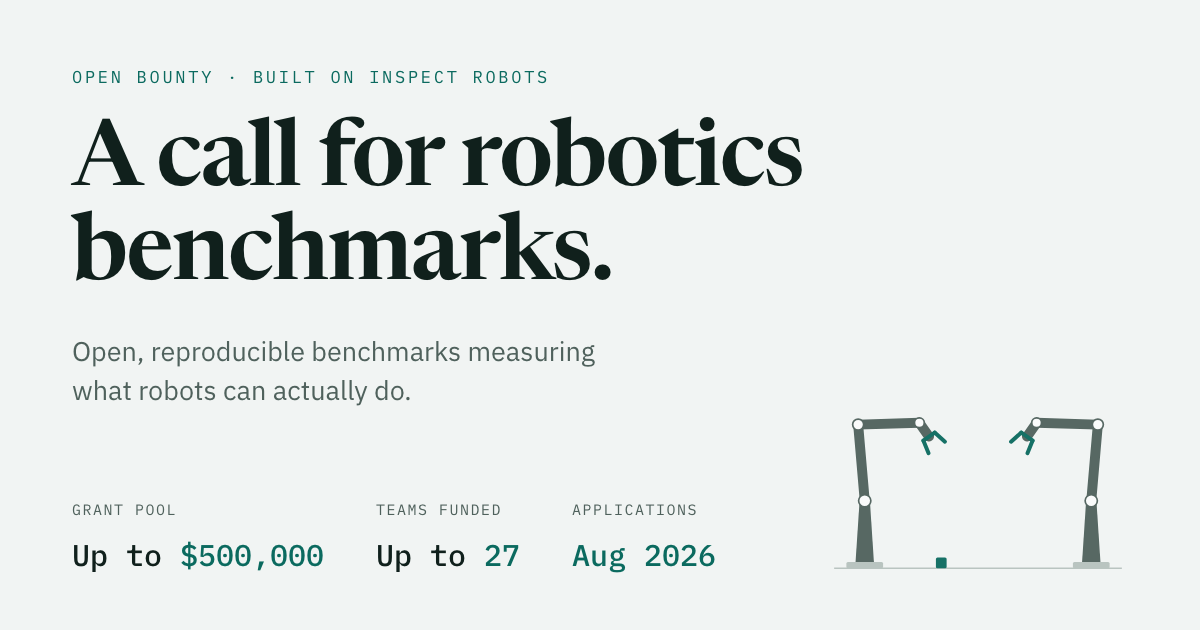
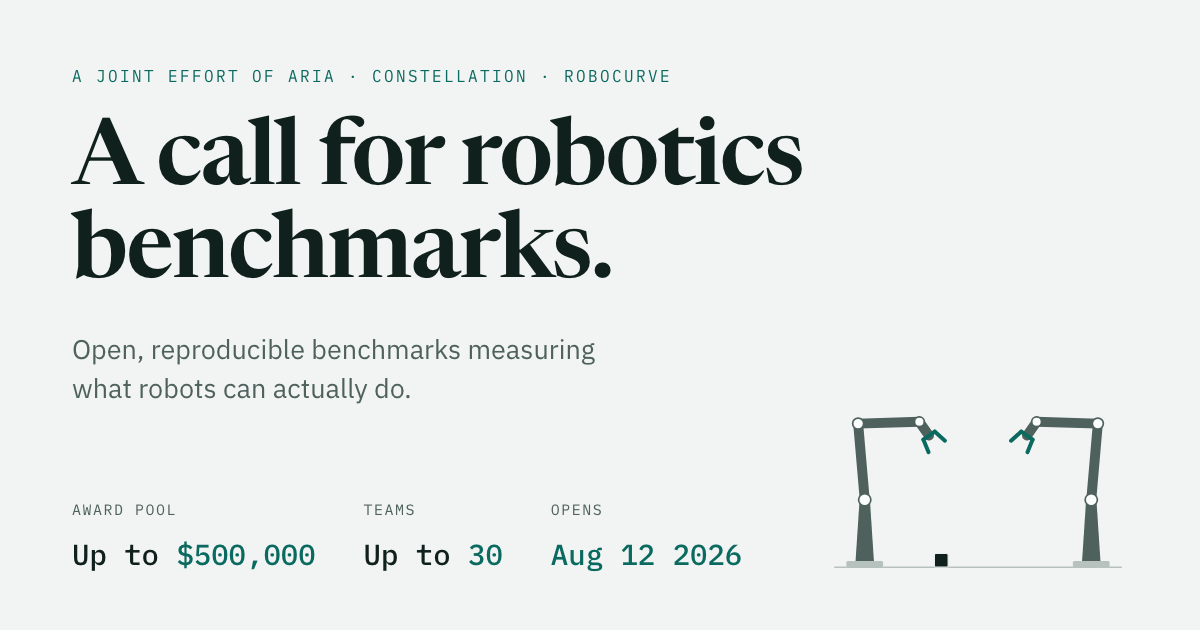
Replace the two tracks with the three-stage funnel
The program is no longer a choice between a simulation track and a
hardware track. It is one funnel everyone enters, narrowing from open
entry to up to 30 teams at Stage 2 and up to 13 at Stage 3.

The section reuses the existing card components rather than introducing a
new idiom, so the page still reads as one design. Narrowing is carried by
the cohort pill in a fixed position across the three cards, everyone then
30 then 13, and by the cards themselves: Stage 1 is deliberately sparse
and carries no award, and each card grows as the deliverable grows. The
grid no longer stretches cards to equal height, so that staircase is
visible rather than padded away. No arrows, no connectors, no progress
bar: the funnel is felt through form.

Award figures revised per the owner: the delivery award is a flat $10,000
and the replication tier tops out at $18,000 rather than $20,000, and the
$36,000 that frees across twelve teams funds a thirteenth. Verified: the
thirteenth team costs $31,659 at the high case, and the pool lands at
$480,564 against the $500,000 headline.

Co-authorship on the joint paper now appears on the Stage 3 card. For an
academic audience it may matter as much as the money, and it had no
presence on the page at all.

Also settled: team awards scale to five members with no hard cap and
larger teams handled case by case; multiple proposals are allowed; the
delivery award is not clawed back if replication fails; the arms are kept
[…]

diff --git a/index.html b/index.html
@@ -4,10 +4,10 @@
 <meta charset="utf-8">
 <meta name="viewport" content="width=device-width, initial-scale=1">
 <title>Robotics Evaluation Bounty · measure what robots can actually do</title>
-<meta name="description" content="An open bounty funding rigorous, reproducible, open-source benchmarks of general robotic capability. Awards up to $31,000 per team, two free SO-101 arms, and co-authorship on the joint paper.">
+<meta name="description" content="An open bounty funding rigorous, reproducible, open-source benchmarks of general robotic capability. Awards up to $28,000 per team, two free SO-101 arms, and co-authorship on the joint paper.">
 <meta name="color-scheme" content="light dark">
 <meta property="og:title" content="Robotics Evaluation Bounty">
-<meta property="og:description" content="There is no public, reproducible way to measure how capable robots are, or how fast that's changing. We fund teams to build one. Awards up to $31,000 per team, two free SO-101 arms, and co-authorship on the joint paper.">
+<meta property="og:description" content="There is no public, reproducible way to measure how capable robots are, or how fast that's changing. We fund teams to build one. Awards up to $28,000 per team, two free SO-101 arms, and co-authorship on the joint paper.">
 <meta property="og:type" content="website">
 <meta property="og:image" content="https://robotics-evals-website.github.io/Website/og.png">
 <meta property="og:image:width" content="1200">
@@ -19,7 +19,7 @@
 <meta name="twitter:card" content="summary_large_image">
 <meta name="twitter:image" content="https://robotics-evals-website.github.io/Website/og.png">
 <meta name="twitter:title" content="Robotics Evaluation Bounty">
-<meta name="twitter:description" content="An open bounty funding reproducible, open-source robotics benchmarks. Awards up to $31,000 per team, two free SO-101 arms, and co-authorship on the joint paper.">
+<meta name="twitter:description" content="An open bounty funding reproducible, open-source robotics benchmarks. Awards up to $28,000 per team, two free SO-101 arms, and co-authorship on the joint paper.">
 <link rel="canonical" href="https://robotics-evals-website.github.io/Website/">
 <meta name="theme-color" content="#F1F4F3" media="(prefers-color-scheme: light)">
 <meta name="theme-color" content="#0C1412" media="(prefers-color-scheme: dark)">
@@ -257,14 +257,18 @@ nav.main a.nlink:hover::after,nav.main a.nlink:focus-visible::after{width:100%}
 /* ============================================================
    TRACKS
    ============================================================ */
-.tracks{display:grid;gap:clamp(1rem,2vw,1.5rem);margin-top:clamp(2rem,4vw,3rem)}
-@media (min-width:820px){.tracks{grid-template-columns:1fr 1fr}}
+.tracks{display:grid;align-items:start;gap:clamp(1rem,2vw,1.5rem);margin-top:clamp(2rem,4vw,3rem)}
+@media (min-width:960px){.tracks{grid-template-columns:repeat(3,1fr)}}
+.track .prize-none{color:var(--ghost);font-size:clamp(1.5rem,1.1rem + 1.3vw,2rem)}
+.track .prize-none small{color:var(--ink-muted)}
+.cta-row-tight{margin-top:clamp(1.6rem,3vw,2.2rem)}
 .track{background:var(--surface);border:1px solid var(--line);border-radius:4px;padding:clamp(1.5rem,3vw,2.2rem);display:flex;flex-direction:column}
 .track.feature{border-color:var(--line-strong)}
 .track .t-top{display:flex;justify-content:space-between;align-items:baseline;gap:1rem}
 .track .t-label{font-family:var(--mono);font-size:var(--fs-label);letter-spacing:var(--tr-label);text-transform:uppercase;color:var(--ink-muted)}
-.track .t-flag{font-family:var(--mono);font-size:var(--fs-label-sm);letter-spacing:var(--tr-label);text-transform:uppercase;color:var(--accent);border:1px solid var(--accent);border-radius:999px;padding:.15em .55em}
+.track .t-flag{white-space:nowrap;font-family:var(--mono);font-size:var(--fs-label-sm);letter-spacing:var(--tr-label);text-transform:uppercase;color:var(--accent);border:1px solid var(--accent);border-radius:999px;padding:.15em .55em}
 .track h3{margin:.5rem 0 .3rem}
+.track .t-when{font-family:var(--mono);font-size:var(--fs-data);color:var(--accent);letter-spacing:.02em;margin:.1rem 0 .6rem}
 .track .t-scope{color:var(--ink-muted);font-size:var(--fs-body-sm)}
 .track .prize{font-family:var(--serif);font-weight:600;font-size:clamp(2.3rem,1.6rem + 2.6vw,3.3rem);line-height:1;
   color:var(--ink);margin:1.3rem 0 .2rem;font-variant-numeric:tabular-nums}
@@ -567,7 +571,7 @@ footer.site{border-top:1px solid var(--line);background:var(--surface);padding-b
   <div class="wrap">
     <a class="brand" href="#top"><span class="dot" aria-hidden="true"></span>Robotics Evaluation Bounty</a>
     <nav class="main" aria-label="Primary">
-      <a class="nlink" href="#tracks">Tracks</a>
+      <a class="nlink" href="#stages">Stages</a>
       <a class="nlink" href="#benchmarks">What to build</a>
       <a class="nlink" href="#method">Method</a>
       <a class="nlink" href="#faq">FAQ</a>
@@ -599,57 +603,69 @@ footer.site{border-top:1px solid var(--line);background:var(--surface);padding-b
   <div class="statusbar">
     <div class="wrap">
       <div class="status-cell"><span>Award pool</span><b>Up to <em>$500,000</em></b></div>
-      <div class="status-cell"><span>Stage 3 award</span><b>Up to <em>$31,000</em></b></div>
+      <div class="status-cell"><span>Stage 3 award</span><b>Up to <em>$28,000</em></b></div>
       <div class="status-cell"><span>Teams funded</span><b>Up to <em>30</em></b></div>
       <div class="status-cell"><span>Framework</span><b>All benchmarks on <em>Inspect Robots</em></b></div>
     </div>
   </div>
 
   <!-- ================= TRACKS ================= -->
-  <section id="tracks" class="band">
+  <section id="stages" class="band">
     <div class="wrap">
-      <p class="marker"><b>01</b> / two ways to take part</p>
+      <p class="marker"><b>01</b> / one funnel, three stages</p>
       <div class="prose">
-        <h2>Choose your track.</h2>
-        <p class="lead">The award pays for the benchmark you deliver. Robots, compute, and materials come <b>on top of it</b>, not deducted from what you earn.</p>
+        <h2>Everyone enters the same way.</h2>
+        <p class="lead">There is no track to choose. The field narrows at each stage, and the award rises as the deliverable grows.</p>
       </div>
       <div class="tracks reveal">
+
         <div class="track">
-          <div class="t-top"><span class="t-label">Track 1 · Simulation</span></div>
-          <h3>Sim benchmarks</h3>
-          <p class="t-scope">Built into Inspect Robots.</p>
-          <div class="prize">$2,000<small>for the benchmark &middot; up to 15 teams</small></div>
-          <ul class="ms">
-            <li><span>Benchmark delivered</span><b>up to $2,000</b></li>
-          </ul>
-          <p class="plus">Plus, on top of the award</p>
-          <ul class="meta">
-            <li><span>Stage 1 proposal accepted</span><b>$500</b></li>
-            <li><span>Compute credits, on selection</span><b>$1,000</b></li>
-          </ul>
-          <a class="btn btn-ghost" href="#apply">Apply · Simulation</a>
+          <div class="t-top"><span class="t-label">Stage 1</span><span class="t-flag">Everyone</span></div>
+          <h3>Proposal</h3>
+          <p class="t-when">Aug 12 &ndash; Sep 13</p>
+          <p class="t-scope">The benchmark you want to build, and one fully specified task instance. Scored on capability, idea, and fit.</p>
+          <div class="prize prize-none">No award<small>entry is open, and free</small></div>
         </div>
+
+        <div class="track">
+          <div class="t-top"><span class="t-label">Stage 2</span><span class="t-flag">Up to 30</span></div>
+          <h3>Simulated benchmark</h3>
+          <p class="t-when">Sep 21 &ndash; Oct 9</p>
+          <p class="t-scope">A working benchmark in Inspect Robots on the KitchenBench pattern. No physics simulation yet.</p>
+          <div class="prize">$3,000<small>up to, per team</small></div>
+          <ul class="ms">
+            <li><span>Base</span><b>$1,000</b></li>
+            <li><span>Per extra member</span><b>+$500</b></li>
+          </ul>
+          <p class="plus">Plus, on top</p>
+          <ul class="meta">
+            <li><span>Compute</span><b>$500</b></li>
+            <li><span>Publication</span><b>WorldEvals</b></li>
+          </ul>
+        </div>
+
         <div class="track feature">
-          <div class="t-top"><span class="t-label">Track 2 · Real-world hardware</span><span class="t-flag">Featured</span></div>
-          <h3>Hardware benchmarks</h3>
-          <p class="t-scope">Runs on an accepted reference robot, built into Inspect Robots.</p>
-          <div class="prize">$32,000<small>for the benchmark &middot; up to 12 teams</small></div>
+          <div class="t-top"><span class="t-label">Stage 3</span><span class="t-flag">Up to 13</span></div>
+          <h3>Physics sim and hardware</h3>
+          <p class="t-when">Oct 21 &ndash; Dec 18</p>
+          <p class="t-scope">Both halves of the deliverable, running end to end, then independently replicated.</p>
+          <div class="prize">$28,000<small>up to, per team</small></div>
           <ul class="ms">
-            <li><span>Spec approved</span><b>$2,000</b></li>
-            <li><span>Working benchmark</span><b>$8,000</b></li>
-            <li><span>Replication + quality tier</span><b>$5,000–$22,000</b></li>
+            <li><span>Delivery</span><b>$10,000</b></li>
+            <li><span>Replication</span><b>$8,000&ndash;$18,000</b></li>
           </ul>
-          <p class="plus">Plus, on top of the award</p>
+          <p class="plus">Plus, on top</p>
           <ul class="meta">
-            <li><span>Stage 1 proposal accepted</span><b>$500</b></li>
-            <li><span>Two SO-101 follower arms</span><b>free, yours to keep</b></li>
-            <li><span>Compute credits, on selection</span><b>$1,000</b></li>
-            <li><span>Bill of materials, against receipts</span><b>up to $1,000</b></li>
+            <li><span>Two SO-101 arms</span><b>free</b></li>
+            <li><span>Compute</span><b>$1,000</b></li>
+            <li><span>Materials</span><b>up to $1,000</b></li>
+            <li><span>Joint paper</span><b>co-author</b></li>
           </ul>
-          <a class="btn btn-primary" href="#apply">Apply · Hardware</a>
         </div>
+
       </div>
-      <p class="tracks-note">Every figure is a maximum per team. The two SO-101 arms ship after selection, are yours to keep, and don't count against the $1,000 bill-of-materials cap. A rubric published on day one sets the quality-tier amount.</p>
+      <p class="tracks-note">Every figure is a maximum. Delivery is paid in December and the replication tier in February, set by a rubric published at launch. Roughly 40% of Stage 2 teams advance to Stage 3; we state that up front so teams can plan. Arms, credits, and the materials budget sit on top of the award and are not deducted from it.</p>
+      <div class="cta-row cta-row-tight"><a class="btn btn-primary btn-lg" href="#apply">Enter at Stage 1</a></div>
     </div>
   </section>
   <!-- ================= BENCHMARKS ================= -->
@@ -863,9 +879,85 @@ footer.site{border-top:1px solid var(--line);background:var(--surface);padding-b
         <div class="stage">
           <span class="s-num">Stage 3 &middot; Oct 21 to Dec 18</span>
           <h3>Physics sim and hardware</h3>
-          <p>Up to 12 teams, roughly 40% of Stage 2. Both halves of the deliverable: a physics simulation of the task family and the hardware benchmark itself, each running end to end with a baseline evaluated.</p>
+          <p>Up to 13 teams, roughly 40% of Stage 2. Both halves of the deliverable: a physics simulation of the task family and the hardware benchmark itself, each running end to end with a baseline evaluated.</p>
         </div>
       </div>
+      <div class="reqs reveal">
+        <div class="reqs-body">
+        <h3>Stage 3 submission requirements</h3>
+        <ul role="list">
+          <li>Runs on an accepted reference robot; the SO-101 by default, single-arm or bimanual</li>
+          <li>Ships a physics simulation of the same task family alongside the hardware benchmark</li>
+          <li>Stays within a ~$1,000 bill-of-materials cap, excluding the robot, reimbursed against receipts</li>
+          <li>Specifies precise environment tolerances and success criteria</li>
+          <li>Includes a repeatable reset procedure</li>
+          <li>States a rollout count, so a score carries an honest error bar</li>
+        </ul>
+        <p class="robots-lead">You don't need to own a robot to apply: every team that reaches <b>Stage 3</b> is sent two fully assembled SO-101 follower arms, ordered on selection day, free and yours to keep even if you withdraw.</p>
+        <p class="robots-lead">If you already own one of these, you may propose it instead, subject to approval at Stage 2. You are still offered the arms, and may decline them.</p>
+        <dl class="alt-robots">
+          <div>
+            <dt>Arms</dt>
+            <dd><span class="rn">YAM</span> <i>·</i> <span class="rn">WidowX AI <small>Trossen</small></span> <i>·</i> <span class="rn">Franka Research 3</span></dd>
+          </div>
+          <div>
+            <dt>Humanoids</dt>
+            <dd><span class="rn">AgiBot X1</span> <i>·</i> <span class="rn">Unitree G1</span></dd>
+          </div>
+        </dl>
+        </div>
+        <figure class="arm-fig">
+          <svg class="arm-svg" id="arm-svg" viewBox="0 0 196 111" xmlns="http://www.w3.org/2000/svg" aria-hidden="true" focusable="false">
+            <path class="a-ground" d="M4,104 L192,104"/>
+            <rect class="a-blk blk-s" x="69.5" y="95" width="9" height="9" rx="1"/>
+            <rect class="a-blk blk-e" x="117.5" y="95" width="9" height="9" rx="1" opacity="0"/>
+            <g class="al">
+              <rect class="a-plate" x="12" y="100" width="24" height="4" rx="1"/>
+              <path class="a-base" d="M18,100 L20.5,62 L27.5,62 L30,100 Z"/>
+              <g class="j1">
+                <path class="a-link" d="M24,60 L19.7,10.2"/>
+                <circle class="a-joint" cx="24" cy="60" r="4"/>
+                <g class="j2">
+                  <path class="a-link" d="M19.7,10.2 L59.7,9"/>
+                  <circle class="a-joint" cx="19.7" cy="10.2" r="3.6"/>
+                  <g class="j3">
+                    <path class="a-link" d="M59.7,9 L66,18"/>
+                    <circle class="a-joint" cx="59.7" cy="9" r="3.2"/>
+                    <path class="a-tool" d="M62.3,20.6 L69.7,15.4"/>
+                    <rect class="a-blk blk-l" x="64" y="24.8" width="9" height="9" rx="1" opacity="0"/>
+                    <g class="ja"><path class="a-tool" d="M62.3,20.6 L65.7,28.9"/></g>
+                    <g class="jb"><path class="a-tool" d="M69.7,15.4 L76.4,21.4"/></g>
+                  </g>
+                </g>
+              </g>
+            </g>
+            <g class="ar">
+              <rect class="a-plate" x="160" y="100" width="24" height="4" rx="1"/>
+              <path class="a-base" d="M166,100 L168.5,62 L175.5,62 L178,100 Z"/>
+              <g class="j1">
+                <path class="a-link" d="M172,60 L176.3,10.2"/>
+                <circle class="a-joint" cx="172" cy="60" r="4"/>
+                <g class="j2">
+                  <path class="a-link" d="M176.3,10.2 L136.3,9"/>
+                  <circle class="a-joint" cx="176.3" cy="10.2" r="3.6"/>
+                  <g class="j3">
+                    <path class="a-link" d="M136.3,9 L130,18"/>
+                    <circle class="a-joint" cx="136.3" cy="9" r="3.2"/>
+                    <path class="a-tool" d="M126.3,15.4 L133.7,20.6"/>
+                    <rect class="a-blk blk-r" x="117.3" y="25.1" width="9" height="9" rx="1" opacity="0"/>
+                    <g class="ja"><path class="a-tool" d="M126.3,15.4 L119.6,21.4"/></g>
+                    <g class="jb"><path class="a-tool" d="M133.7,20.6 L130.3,28.9"/></g>
+                  </g>
+                </g>
+              </g>
+            </g>
+          </svg>
+          <figcaption class="arm-cap">
+            <b>2 &times; SO-101</b>
+            <span>5 DOF + gripper</span>
+            <button class="arm-replay" type="button" id="arm-replay" aria-pressed="false">pause</button>
+          </figcaption>
+        </figure>
       </div>
     </div>
   </section>
@@ -880,9 +972,9 @@ footer.site{border-top:1px solid var(--line);background:var(--surface);padding-b
         <div class="tl"><span class="d">Sep 13 2026</span><b>Stage 1 closes</b><p>Proposals due, each including one fully specified task instance.</p></div>
         <div class="tl"><span class="d">Sep 21 2026</span><b>Stage 2 cohort selected</b><p>Up to 30 teams advance. Compute credits disbursed.</p></div>
         <div class="tl"><span class="d">Oct 9 2026</span><b>Stage 2 entries due</b><p>Working simulated benchmarks in Inspect Robots, green CI, self-scored against the rubric.</p></div>
-        <div class="tl"><span class="d">Oct 21 2026</span><b>Stage 3 cohort selected</b><p>Up to 12 teams advance. SO-101 arms ordered the same day and delivered within a week; BOM budgets open.</p></div>
-        <div class="tl"><span class="d">Dec 18 2026</span><b>Stage 3 entries due</b><p>Physics simulation and hardware benchmark, with the full reproducibility package. Accepted on a rolling basis from Dec 1. $11,000 per verified delivery is paid before year end.</p></div>
-        <div class="tl"><span class="d">Feb 2027</span><b>Replication complete</b><p>Spot-check reruns finish and quality tiers are assigned. The $8,000 to $20,000 tier awards are disbursed and the benchmark repository is released in WorldEvals.</p></div>
+        <div class="tl"><span class="d">Oct 21 2026</span><b>Stage 3 cohort selected</b><p>Up to 13 teams advance. SO-101 arms ordered the same day and delivered within a week; BOM budgets open.</p></div>
+        <div class="tl"><span class="d">Dec 18 2026</span><b>Stage 3 entries due</b><p>Physics simulation and hardware benchmark, with the full reproducibility package. Accepted on a rolling basis from Dec 1. $10,000 per verified delivery is paid before year end.</p></div>
+        <div class="tl"><span class="d">Feb 2027</span><b>Replication complete</b><p>Spot-check reruns finish and quality tiers are assigned. The $8,000 to $18,000 tier awards are disbursed and the benchmark repository is released in WorldEvals.</p></div>
         <div class="tl"><span class="d">Q1 2027</span><b>Joint paper</b><p>The full collected suite, paired simulations, and sim-to-real gap results, written up with Stage 3 teams as co-authors. Preprint posted on submission.</p></div>
       </div>
     </div>
@@ -893,26 +985,26 @@ footer.site{border-top:1px solid var(--line);background:var(--surface);padding-b
       <p class="marker"><b>08</b> / questions</p>
       <div class="prose"><h2>Frequently asked.</h2></div>
       <div class="faq reveal">
-        <details><summary>Who can apply?</summary><p>Open worldwide, to individuals and teams, students included. You do not need to own a robot: every team that reaches Stage&nbsp;3 is sent a fully assembled SO-101 at no cost and keeps it. Everyone enters the same way, with a Stage&nbsp;1 proposal.</p></details>
+        <details><summary>Who can apply?</summary><p>Individuals and teams, students included. You do not need to own a robot: every team that reaches Stage&nbsp;3 is sent a fully assembled SO-101 at no cost and keeps it. Everyone enters the same way, with a Stage&nbsp;1 proposal, and you may submit more than one.</p></details>
         <details><summary>Is this a job, a contract, or a grant?</summary><p>None of those. These are competition awards, not payment for services: no employment or contracting relationship, no supervision, no hours reporting, and no work assigned by us. You choose your own task, method, and schedule, and are judged against criteria published on day one. Awards are flat amounts tied to deliverables, not to time spent.</p></details>
         <details><summary>I hold a student visa. Can I enter?</summary><p>We believe this structure is compatible with the visa status of international students, who are a large share of the robotics research community. Rules vary by institution and by circumstance, so confirm with your international student office before entering. Better to check and enter with confidence than find a problem later.</p></details>
-        <details><summary>How does the funnel work, and what are the odds?</summary><p>One funnel, three stages, entered the same way by everyone: a proposal at Stage&nbsp;1, a simulated benchmark at Stage&nbsp;2 (up to 30 teams), then the physics simulation and the hardware benchmark at Stage&nbsp;3 (up to 12 teams). Roughly 40% of Stage&nbsp;2 teams advance to Stage&nbsp;3. We state that rate up front so teams can plan. Accepted Stage&nbsp;2 benchmarks are published whether or not the team advances.</p></details>
-        <details><summary>What does a Stage 1 entry need to contain?</summary><p>A proposal: the benchmark you want to build, the target area it addresses (jobs impact, AI timelines, or societal relatability), and your background. Plus one fully specified task instance in the published format: a stochastic setup with named random variables and their distributions, not one fixed scene; a goal written as a natural-language success criterion; a reset procedure; and a success scorer. Due 13 September 2026. Scored on team capability, idea quality, and relevance. Spam, AI slop, and harmful eval proposals are rejected without review.</p></details>
+        <details><summary>How does the funnel work, and what are the odds?</summary><p>One funnel, three stages, entered the same way by everyone: a proposal at Stage&nbsp;1, a simulated benchmark at Stage&nbsp;2 (up to 30 teams), then the physics simulation and the hardware benchmark at Stage&nbsp;3 (up to 13 teams). Roughly 40% of Stage&nbsp;2 teams advance to Stage&nbsp;3. We state that rate up front so teams can plan. Accepted Stage&nbsp;2 benchmarks are published whether or not the team advances.</p></details>
+        <details><summary>What does a Stage 1 entry need to contain?</summary><p>A proposal: the benchmark you want to build, the target area it addresses (jobs impact, AI timelines, or societal relatability), and your background. Plus one fully specified task instance in the published format: a stochastic setup with named random variables and their distributions, not one fixed scene; a goal written as a natural-language success criterion; a reset procedure; and a success scorer. Due 13 September 2026, 23:59 Pacific time. Scored on team capability, idea quality, and relevance. Spam, AI slop, and harmful eval proposals are rejected without review.</p></details>
         <details><summary>What is due at Stage 2 and Stage 3?</summary>
         <ul class="faq-list">
           <li><b>Stage 2</b> A working simulated benchmark in Inspect Robots, on the KitchenBench pattern: instances as distributions, realizations by seed, a scorer, a mock embodiment. The repository must install clean, run end to end, pass CI, and carry a self-score against the published rubric. No physics simulation needed.</li>
-          <li><b>Stage 3</b> Both halves: a physics simulation of the task family and the hardware benchmark, each running end to end in Inspect Robots, with a baseline model evaluated and a full reproducibility package covering environment specs with tolerances, the eval protocol, the reset procedure, and rollout counts. Due 18 December 2026, accepted on a rolling basis from 1 December.</li>
+          <li><b>Stage 3</b> Both halves: a physics simulation of the task family and the hardware benchmark, each running end to end in Inspect Robots, with a baseline model evaluated and a full reproducibility package covering environment specs with tolerances, the eval protocol, the reset procedure, and rollout counts. Due 18 December 2026, 23:59 Pacific time, accepted on a rolling basis from 1 December.</li>
         </ul></details>
-        <details><summary>What does each stage pay?</summary><p>Stage&nbsp;1 pays nothing. Stage&nbsp;2 pays $1,000, plus $500 for each team member beyond the first, to a maximum of $3,000 per team, with $500 in compute credits. Stage&nbsp;3 pays $11,000 in December on verified delivery, and $8,000 to $20,000 in February on passing replication, set by a rubric published at launch, plus $1,000 in compute credits, up to $1,000 for a bill of materials against receipts, and the SO-101 arms.</p></details>
+        <details><summary>What does each stage pay?</summary><p>Stage&nbsp;1 pays nothing. Stage&nbsp;2 pays $1,000, plus $500 for each team member beyond the first, to a maximum of $3,000, which is a team of five. There is no hard limit on team size; if you are larger, get in touch and we will handle it case by case. Stage&nbsp;2 also carries $500 in compute credits. Stage&nbsp;3 pays $10,000 in December on verified delivery, and $8,000 to $18,000 in February on passing replication, set by a rubric published at launch, plus $1,000 in compute credits, up to $1,000 for a bill of materials against receipts, and the SO-101 arms.</p></details>
         <details><summary>How are awards paid out?</summary><p>To the team, by international transfer, split as the team directs. Teams affiliated with a university may instead request payment as a research gift to their institution. Ask for that route at Stage&nbsp;2 selection, since institutional contracting takes several weeks.</p></details>
         <details><summary>How are awards taxed?</summary><p>Awards may be reported to tax authorities. Awards to recipients outside the United States may be subject to withholding at the applicable rate, recoverable only by filing a US return the following year. Recipients inside the United States receive awards without withholding and may owe estimated tax. We collect tax forms at Stage&nbsp;3 selection, before any award is disbursed. If you are unsure of the effect, take advice before entering.</p></details>
-        <details><summary>Which robot do I build on?</summary><p>The SO-101 is the default reference embodiment. Every Stage&nbsp;3 team is sent a fully assembled set of two follower arms, ordered on selection day and delivered within a week, free and with no return obligation. They sit outside the $1,000 bill-of-materials cap, which covers task materials and 3D-printable fixtures, files included. Teams may instead propose an alternative embodiment they already own, approved at Stage&nbsp;2:</p>
+        <details><summary>Which robot do I build on?</summary><p>The SO-101 is the default reference embodiment. Every Stage&nbsp;3 team is sent a fully assembled set of two follower arms, ordered on selection day and delivered within a week, free and with no return obligation, including if you withdraw. They sit outside the $1,000 bill-of-materials cap, which covers task materials and 3D-printable fixtures, files included. Teams may instead propose an alternative embodiment they already own, approved at Stage&nbsp;2. You are still offered the arms, and may decline them:</p>
         <ul class="faq-list">
           <li><b>Arms</b> YAM, WidowX AI (Trossen), Franka Research 3</li>
           <li><b>Humanoids</b> AgiBot X1, Unitree G1</li>
         </ul></details>
         <details><summary>Do I need to teleoperate the arm or collect demonstrations?</summary><p>No. Teams drive the arms through <span class="mono">inspect-robots-so101</span>, which wraps LeRobot checkpoints (ACT, SmolVLA, &pi;0, diffusion) as an Inspect Robots policy and the SO-ARM follower as an embodiment. A public checkpoint such as <span class="mono">lerobot/smolvla_base</span> is enough to produce a baseline. No teleoperation or demo collection is required, and no leader arms are supplied.</p></details>
-        <details><summary>How does replication work?</summary><p>We do not rerun every rollout. We spot-check, by a procedure published on day one: 2 rollouts on each of 5 instances, sampled at random and not announced in advance. The test is whether an independent operator can arrange each scene from your written setup alone, without contacting you, and get a result consistent with your claim. It passes if observed successes fall inside the 90% binomial interval implied by your claimed per-instance success rate, and if every sampled instance is realizable from the written spec. Where a rerun falls outside tolerance, we iterate with you before assigning a final tier. This tests reproducibility. It is not a re-estimate of your success rate.</p></details>
+        <details><summary>How does replication work?</summary><p>We do not rerun every rollout. We spot-check, by a procedure published on day one: 2 rollouts on each of 5 instances, sampled at random and not announced in advance. The test is whether an independent operator can arrange each scene from your written setup alone, without contacting you, and get a result consistent with your claim. It passes if observed successes fall inside the 90% binomial interval implied by your claimed per-instance success rate, and if every sampled instance is realizable from the written spec. Where a rerun falls outside tolerance, we iterate with you before assigning a final tier. The December delivery award is not reversed if replication does not ultimately pass; only the tier award depends on it. This tests reproducibility. It is not a re-estimate of your success rate.</p></details>
         <details><summary>Who checks that the task instances are any good?</summary><p>We commission that separately, rather than assuming teams have done it. Three experts rate each instance on representativeness and quality. An instance is accepted only if both scores are at least 4.</p></details>
         <details><summary>Who owns the benchmark I build?</summary><p>You do. Copyright stays with the authors. Entering grants us a licence to publish the benchmark in WorldEvals under the MIT licence, with your team credited, and to reproduce and report results from it. You keep publication rights in full: write up your own benchmark, submit it anywhere, present it however you like, without clearing anything with us.</p></details>
         <details><summary>What is the joint paper?</summary><p>After replication closes in February we write up the full collected suite: the hardware benchmarks, their paired physics simulations, the measured sim-to-real gap across them, and baseline results for current VLA policies. Submission is targeted for Q1 2027, with a preprint at the same time. Every Stage&nbsp;3 team that passes replication is offered co-authorship. Teams may decline and be acknowledged instead. Author order and the contribution statement are settled with participating teams beforehand.</p></details>
